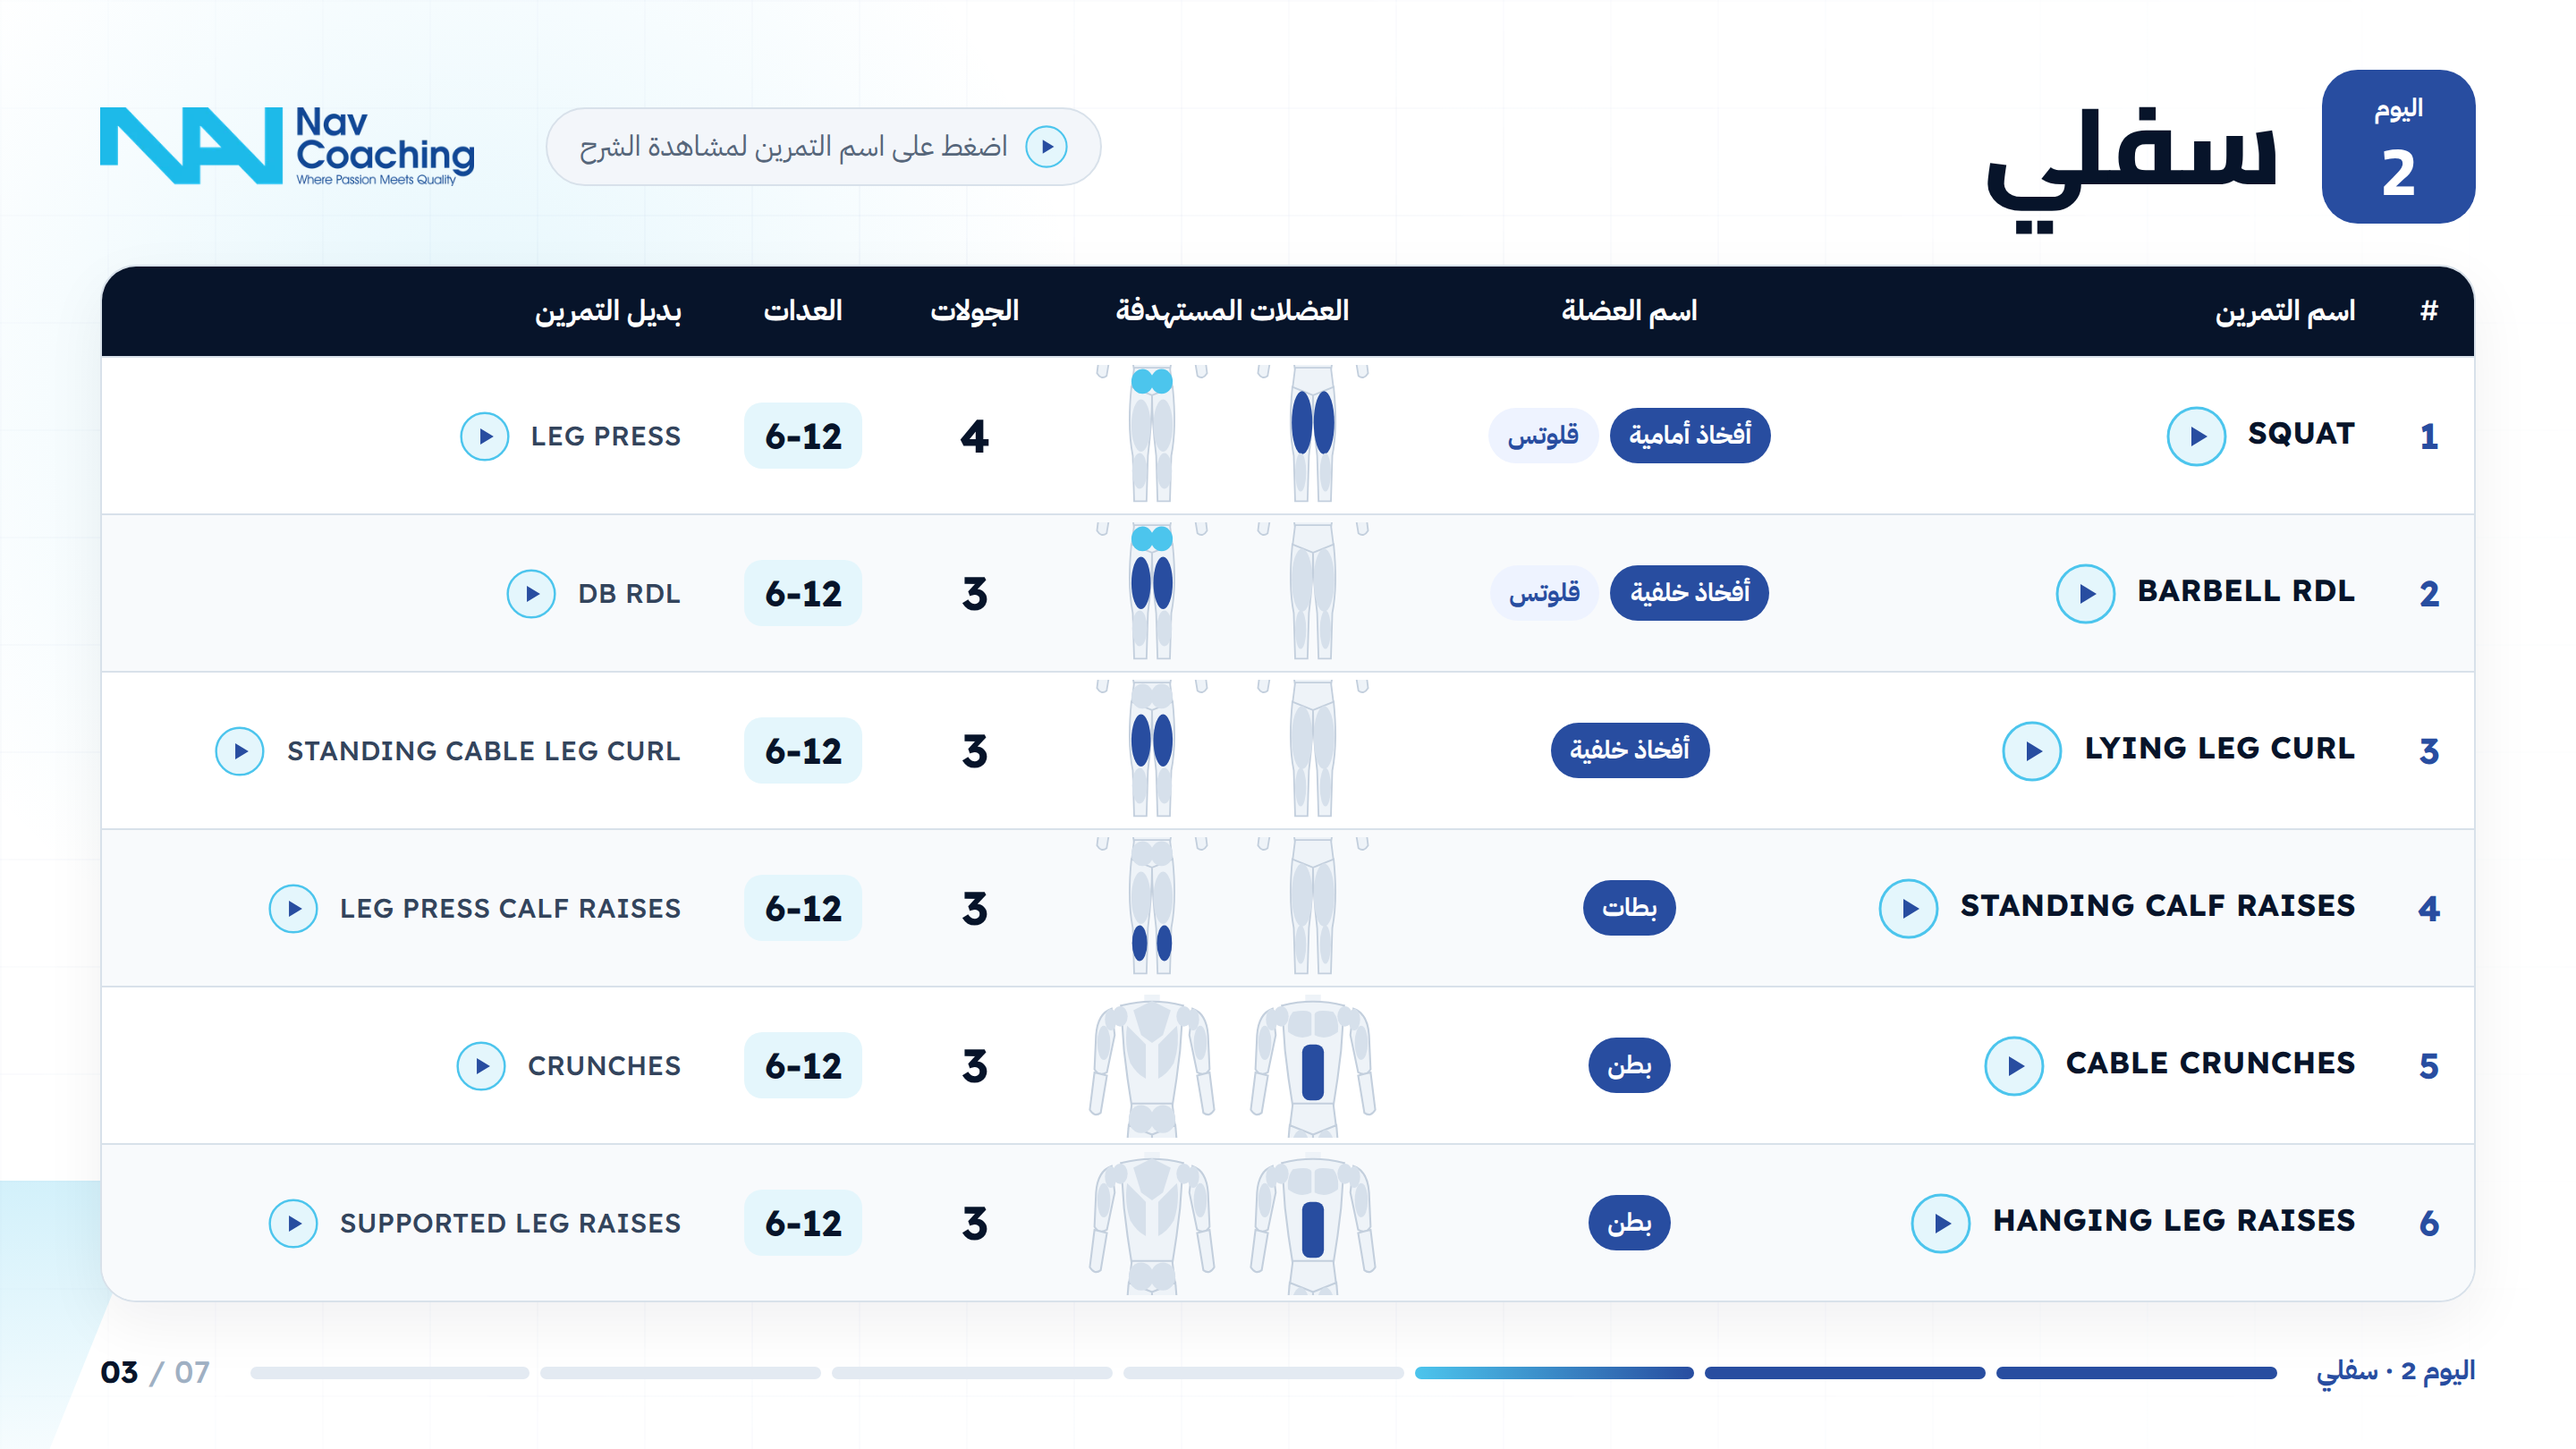
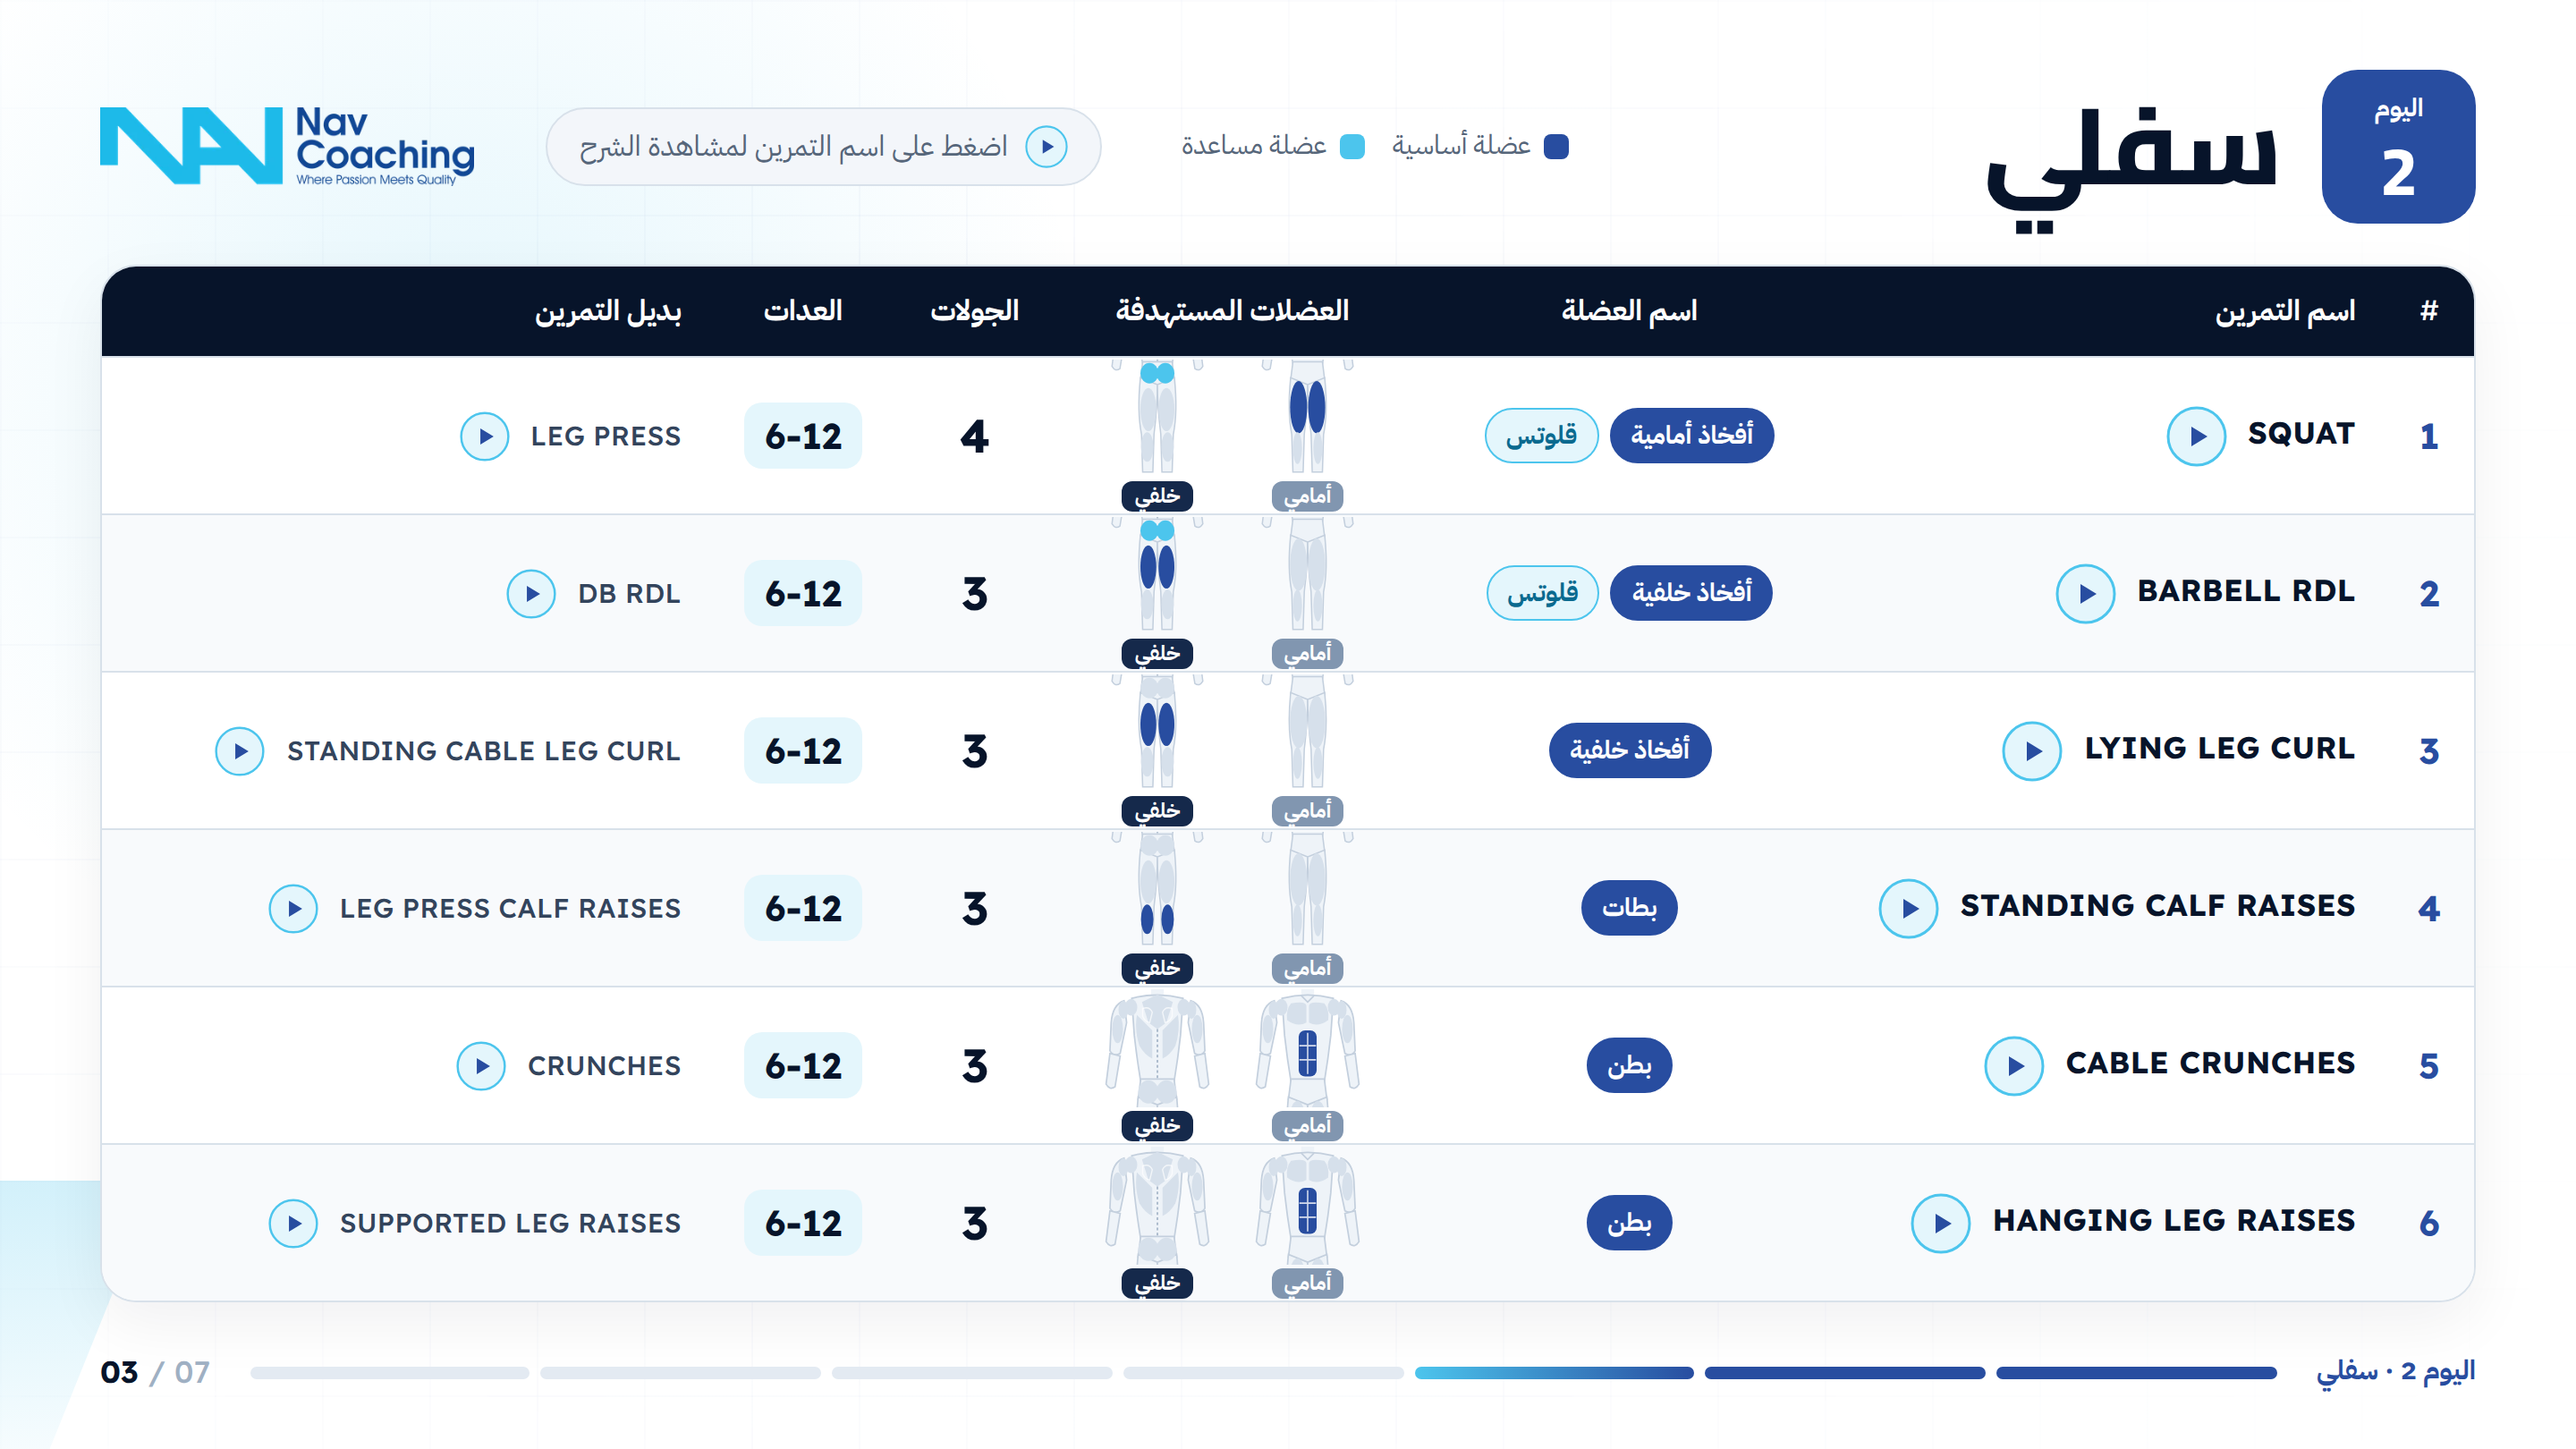
Program PDF: make front/back body diagrams unambiguous
Claude-Session: https://claude.ai/code/session_018Z9fQ6WXKqVkgdznS9iWHe

diff --git a/pdf/program.html b/pdf/program.html
@@ -64,9 +64,9 @@ a{color:inherit;text-decoration:none}
 
 .tbl{position:absolute;top:148px;right:56px;left:56px;border:1.5px solid var(--line);border-radius:20px;overflow:hidden;background:#fff;box-shadow:0 12px 34px #07142a0f;z-index:2}
 .tr{display:grid;grid-template-columns:50px 300px 244px 200px 88px 104px 1fr;align-items:center;direction:rtl}
-.th{background:var(--ink);color:#fff;height:50px;font:700 16px "IBM Plex Sans Arabic"}
+.th{background:var(--ink);color:#fff;height:60px;font:700 16px "IBM Plex Sans Arabic"}
 .th>div{text-align:center}.th>div.r{text-align:right;padding-right:16px}
-.td{height:88px;border-top:1px solid var(--line)}
+.td{height:86px;border-top:1px solid var(--line)}
 .td:nth-child(odd){background:#f8fafc}
 .td>div{height:100%;display:flex;align-items:center;justify-content:center}
 .td .idx{font:800 20px "Readex Pro";color:var(--navy)}
@@ -81,9 +81,10 @@ a{color:inherit;text-decoration:none}
 .tag{font:700 14px "IBM Plex Sans Arabic";padding:4px 11px;border-radius:99px;background:var(--cyan-soft);border:1.5px solid var(--cyan);color:var(--cyan-ink);white-space:nowrap}
 .tag.p{background:var(--navy);border-color:var(--navy);color:#fff}
 .lg{display:flex;gap:16px;font:500 15px "IBM Plex Sans Arabic";color:var(--muted)}.lg span{display:flex;align-items:center;gap:7px}.lg i{width:14px;height:14px;border-radius:4px;background:var(--navy)}.lg i.s{background:var(--cyan)}
-.fig{gap:10px}.fig svg{height:80px;width:80px}
+.fig{gap:18px}.fig .v{display:flex;flex-direction:column;align-items:center}.fig svg{height:80px;width:78px}.fig .v span{font:700 11.5px "IBM Plex Sans Arabic";color:#fff;background:#8196b0;border-radius:6px;padding:0 7px;line-height:17px}.fig .v.b span{background:var(--ink3)}
 .num{font:800 26px "Readex Pro";color:var(--ink)}
 .rep{font:700 20px "Readex Pro";color:var(--ink);direction:ltr;background:var(--cyan-soft);border-radius:10px;padding:6px 12px}
+.th .fh{display:flex;flex-direction:column;align-items:center;gap:4px;line-height:1.1}.th .fh div{display:flex;gap:18px}.th .fh span{width:78px;font:700 12.5px "IBM Plex Sans Arabic";background:#8196b0;border-radius:6px;line-height:19px}.th .fh span.b{background:var(--cyan);color:var(--ink)}
 .th .alt-h{text-align:right;padding-right:16px}
 .legend{position:absolute;bottom:78px;right:58px;display:flex;gap:18px;font:500 14px "IBM Plex Sans Arabic";color:var(--muted);z-index:2}
 .legend i{display:inline-block;width:12px;height:12px;border-radius:3px;margin-left:6px;vertical-align:-1px}
@@ -135,12 +136,21 @@ function body(view,pri,sec){const c=m=>pri.includes(m)?P:(sec.includes(m)?S2:BAS
     o+=both('e',[19,57,4.2,11],c('biceps'));
     o+=shape('rect',{x:43,y:58,width:14,height:36,rx:5,fill:c('abs')});
     o+=both('e',[42,136,7.5,23],c('quads'));o+=both('e',[41,172,4,14],BASE);
+    // front cues: face, collar V, six-pack lines, navel
+    o+=shape('circle',{cx:46.5,cy:14,r:1.3,fill:'#8196b0'})+shape('circle',{cx:53.5,cy:14,r:1.3,fill:'#8196b0'})+shape('path',{d:'M47,19 Q50,21 53,19',fill:'none',stroke:'#8196b0','stroke-width':1.1,'stroke-linecap':'round'});
+    o+=shape('path',{d:'M45,31 L50,36 L55,31',fill:'none',stroke:STR,'stroke-width':1.2});
+    o+=shape('path',{d:'M50,60 V92 M43.5,70 H56.5 M43.5,81 H56.5',fill:'none',stroke:'#ffffffcc','stroke-width':1.1});
   }else{
     o+=shape('path',{d:'M50,30 L62,36 L57,52 L50,57 L43,52 L38,36Z',fill:c('rhomb')});
     o+=both('p','M34,46 Q40,52 46,58 L46,80 Q40,77 36,70 Q32,58 34,46Z',c('lats'));
     o+=both('e',[29.5,40,4.8,6.5],c('rdelt'));o+=both('e',[23.5,42,3.8,7],c('sdelt'));
     o+=both('e',[19,57,4.2,11],c('triceps'));
     o+=both('e',[43,106,8,9],c('glutes'));o+=both('e',[42,138,7,19],c('hams'));o+=both('e',[41,171,5.5,13],c('calves'));
+    // back cues: hair, spine, shoulder blades
+    o+=shape('path',{d:'M40,15 A10,10 0 0 1 60,15 Q60,21 57,23 L43,23 Q40,21 40,15Z',fill:'#9fb1c6'});
+    o+=shape('path',{d:'M50,57 V96',fill:'none',stroke:'#aab9cb','stroke-width':1.3,'stroke-dasharray':'2.2 1.8'});
+    o+=both('p','M38.5,41 Q44,39 46,44 L44,52 Q40,51 38.5,47Z','none');
+    o+=shape('path',{d:'M38.5,41 Q44,39 46,44 L44,52 Q40,51 38.5,47Z M61.5,41 Q56,39 54,44 L56,52 Q60,51 61.5,47Z',fill:'none',stroke:'#ffffffb0','stroke-width':1});
   }
   const all=pri.concat(sec),LOW=['quads','glutes','hams','calves'];
   const vb=all.every(m=>LOW.includes(m))?'4 94 92 104':(all.length===1&&all[0]==='abs')?'4 26 92 92':'4 2 92 104';
@@ -178,11 +188,11 @@ DAYS.forEach(d=>{
    +'<div class="top"><div class="badge '+d.cls+'"><small>اليوم</small>'+d.n+'</div><h2>'+d.title+'</h2>'
    +'<div class="lg" style="margin-right:auto"><span><i></i>عضلة أساسية</span><span><i class="s"></i>عضلة مساعدة</span></div><div class="hint" style="margin-right:22px">'+PLAY.replace('class="pl"','class="pl" style="width:24px;height:24px"')+'اضغط على اسم التمرين لمشاهدة الشرح</div>'
    +'<img class="logo" src="../brand/logo-color.webp" alt="Nav Coaching"></div>'
-   +'<div class="tbl"><div class="tr th"><div>#</div><div class="r">اسم التمرين</div><div>اسم العضلة</div><div>العضلات المستهدفة</div><div>الجولات</div><div>العدات</div><div class="alt-h">بديل التمرين</div></div>';
+   +'<div class="tbl"><div class="tr th"><div>#</div><div class="r">اسم التمرين</div><div>اسم العضلة</div><div class="fh">العضلات المستهدفة<div><span>أمامي</span><span class="b">خلفي</span></div></div><div>الجولات</div><div>العدات</div><div class="alt-h">بديل التمرين</div></div>';
   d.rows.forEach((r,i)=>{const [name,id,mus,pri,sec,sets,reps,alt,altId]=r;
     html+='<div class="tr td"><div class="idx">'+(i+1)+'</div><div class="ex">'+lnk(name,id)+'</div>'
      +'<div class="tags">'+mus.map((m,k)=>'<span class="tag'+(k===0?' p':'')+'">'+m+'</span>').join('')+'</div>'
-     +'<div class="fig">'+body('f',pri,sec)+body('b',pri,sec)+'</div>'
+     +'<div class="fig"><div class="v">'+body('f',pri,sec)+'</div><div class="v b">'+body('b',pri,sec)+'</div></div>'
      +'<div class="num">'+sets+'</div><div><span class="rep">'+reps+'</span></div><div class="alt">'+lnk(alt,altId)+'</div></div>';});
   html+='</div></section>';
 });
